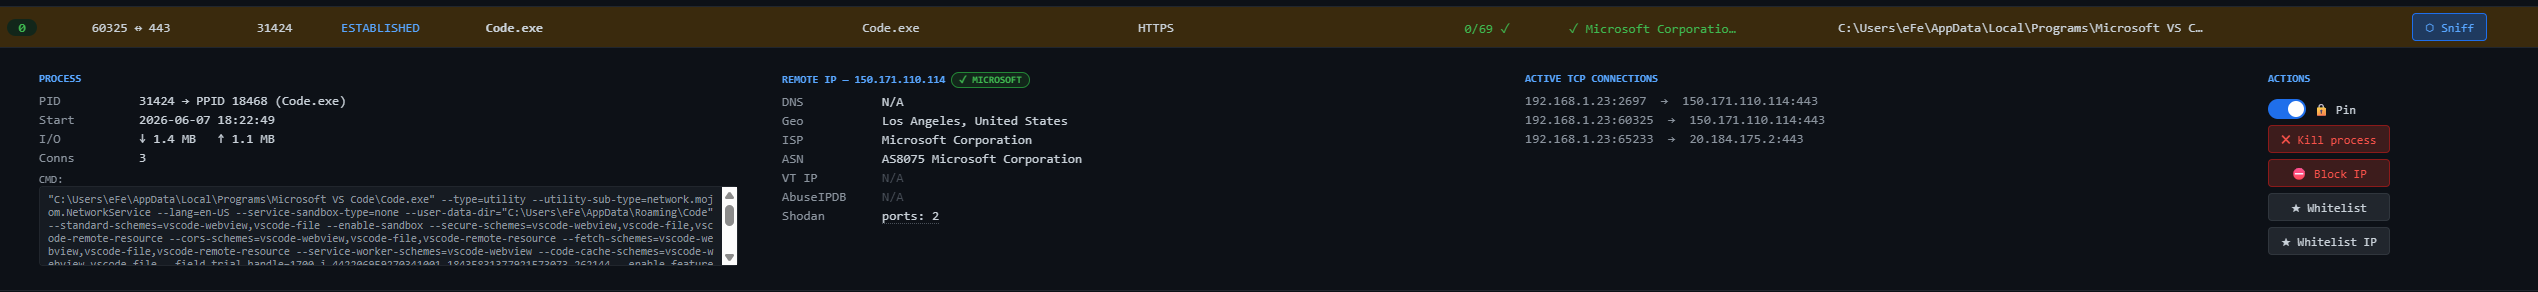
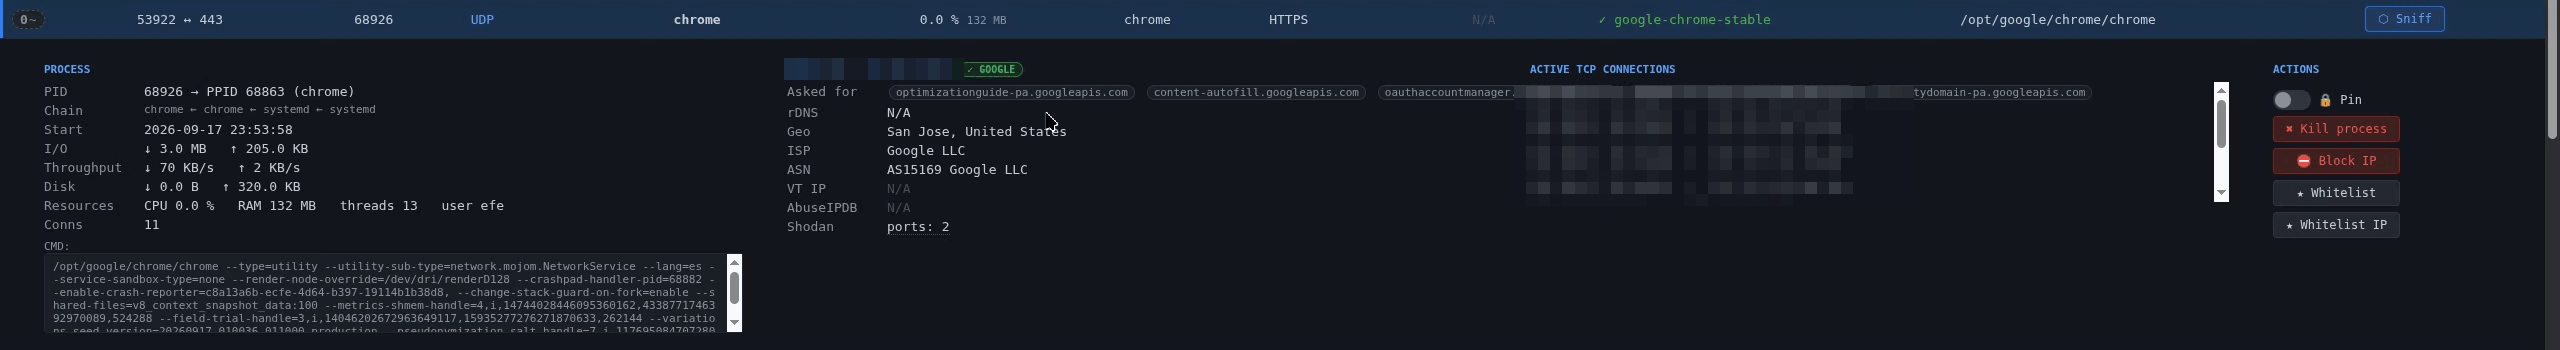
docs: 0.3.0 screenshots (main, details, history, new audit); wrap hostname chips
Frames from a screen recording of the Linux build: the CPU / Mem column,
the language toggle with Chinese, the version in the header, the details
block with resources, throughput, disk and the names the process asked
for (passive DNS), the history modal with the timeline export, and the
audit modal with its scan time and the attributed nvidia / capture rows.
Addresses and machine-specific audit findings are pixelated. The capture
screenshot is unchanged.

The value side of a detail line can now shrink and wrap: a row of hostname
chips used to run past its column into the connections block.

diff --git a/web/templates/report.html b/web/templates/report.html
@@ -37,6 +37,9 @@ td { padding:6px 12px; border-bottom:1px solid #21262d; white-space:nowrap; vert
 .detail-block { padding:10px 16px; }
 .detail-block h4 { color:#58a6ff; font-size:11px; text-transform:uppercase; margin-bottom:6px; }
 .detail-line { display:flex; gap:10px; padding:2px 0; }
+/* The value side must be allowed to shrink, or a row of hostname chips runs
+   past its column into the next block. */
+.detail-line > span:last-child { flex:1; min-width:0; overflow-wrap:anywhere; }
 .detail-label { color:#8b949e; min-width:90px; }
 .listen { color:#8b949e; } .established { color:#3fb950; } .remote-yes { color:#58a6ff; }
 .udp { color:#a371f7; } /* datagram socket with no peer (bound only) */

diff --git a/README.es.md b/README.es.md
@@ -132,13 +132,17 @@ no para atacar a otros.
 
 ## Capturas
 
-| Detalle de conexión e intel de IP | Captura de paquetes |
-|---|---|
-| ![Detalle](docs/screenshot-details.png) | ![Captura](docs/screenshot-capture.png) |
-
-| Histórico forense |
+| Detalle de conexión e intel de IP |
 |---|
-| ![Histórico](docs/screenshot-history.png) |
+| ![Detalle](docs/screenshot-details.png) |
+
+| Auditoría del equipo | Histórico forense |
+|---|---|
+| ![Auditoría](docs/screenshot-audit.png) | ![Histórico](docs/screenshot-history.png) |
+
+| Captura de paquetes |
+|---|
+| ![Captura](docs/screenshot-capture.png) |
 
 ## Instalación
 

diff --git a/README.md b/README.md
@@ -123,13 +123,17 @@ attacking others.
 
 ## Screenshots
 
-| Connection details & IP intel | Packet capture |
-|---|---|
-| ![Details](docs/screenshot-details.png) | ![Capture](docs/screenshot-capture.png) |
-
-| Forensic history |
+| Connection details & IP intel |
 |---|
-| ![History](docs/screenshot-history.png) |
+| ![Details](docs/screenshot-details.png) |
+
+| Machine audit | Forensic history |
+|---|---|
+| ![Audit](docs/screenshot-audit.png) | ![History](docs/screenshot-history.png) |
+
+| Packet capture |
+|---|
+| ![Capture](docs/screenshot-capture.png) |
 
 ## Install
 
